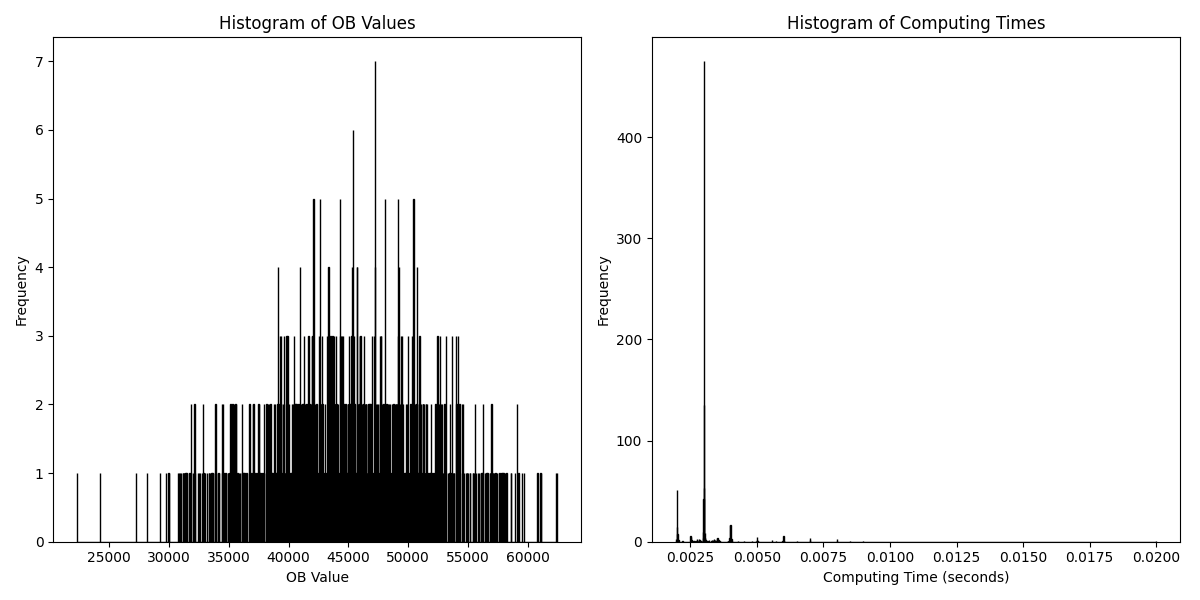
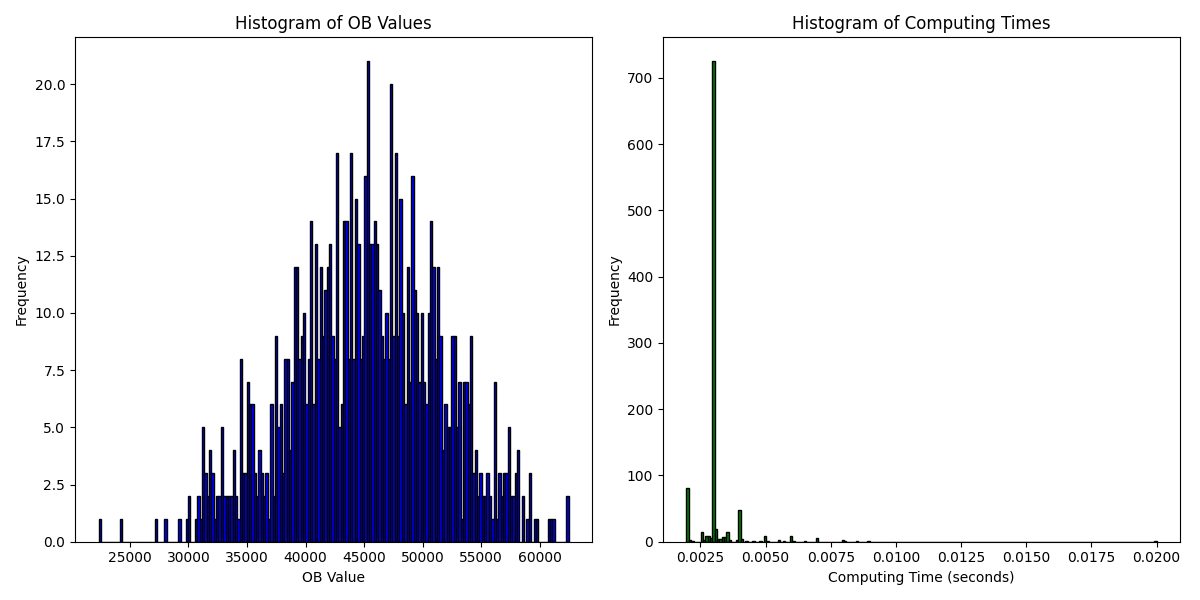
SD

diff --git a/visualization_results.py b/visualization_results.py
@@ -22,14 +22,14 @@ def plot_histograms(results,output_filename):
     plt.figure(figsize=(12, 6))
 
     plt.subplot(1, 2, 1)
-    plt.hist(ob_values, bins=2000, color='blue', edgecolor='black')
+    plt.hist(ob_values, bins=200, color='blue', edgecolor='black')
     plt.title('Histogram of OB Values')
     plt.xlabel('OB Value')
     plt.ylabel('Frequency')
 
     # Plot histogram for Computing Times
     plt.subplot(1, 2, 2)
-    plt.hist(computing_times, bins=2000, color='green', edgecolor='black')
+    plt.hist(computing_times, bins=200, color='green', edgecolor='black')
     plt.title('Histogram of Computing Times')
     plt.xlabel('Computing Time (seconds)')
     plt.ylabel('Frequency')

diff --git a/TTP_random_tour_and_packing_list.py b/TTP_random_tour_and_packing_list.py
@@ -41,7 +41,7 @@ def random_tour_and_packing(ttp):
     vmax = 1.0
     vmin = 0.1
     W = num_items*50/2 #might change.
-    R = 1.0
+    R = 1.0 #might change
 
     random_tour = list(range(1, num_cities))  # Exclude starting city (0) for shuffling
     random.shuffle(random_tour)
